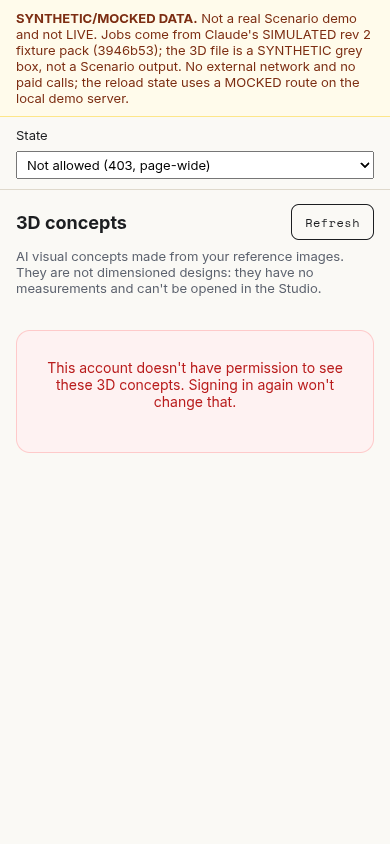
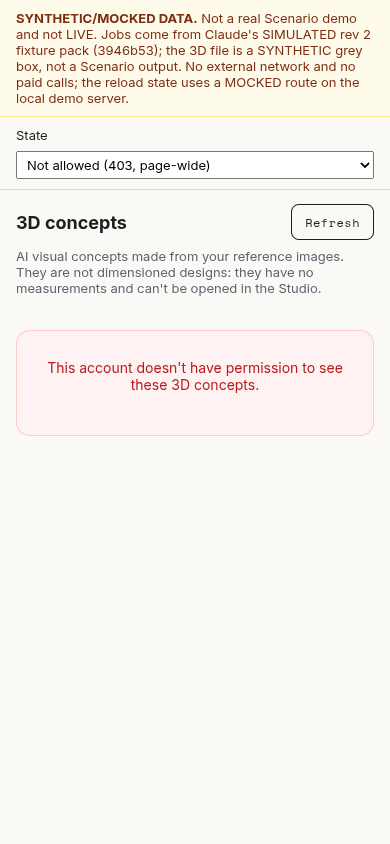
projects: pass autoRetry:false to AE viewer v3 at mount and per load(); 403 page-wide without any sign-in wording; tests (viewerV3, e2e F06-N2); state-10 SYNTHETIC screenshots re-shot; docs: AE-1/AE-2 resolved, 409 ASSET_NOT_READY refresh accepted as not a retry

Changed region(s): [[0.1538, 0.4313, 0.7385, 0.4929], [0.7692, 0.4313, 0.8615, 0.4621]]

diff --git a/tests/projects/viewerV3.test.js b/tests/projects/viewerV3.test.js
@@ -1,0 +1,137 @@
+/**
+ * Follow-up to AE viewer v3 (1bb8b59, autoRetry option, default off) and AE's confirmation that
+ * 403 FORBIDDEN is page-wide (SIMULATED fixtures; the viewer is the fake handle in
+ * fixtures/fakeViewer.js, the creative source is the real one).
+ *
+ * (a) The gallery passes autoRetry:false EXPLICITLY at mount and on every load(), and a viewer
+ *     that ignores unknown options (v2.1) still works.
+ * (b) 403 is page-wide like signed-out, but WITHOUT any sign-in prompt; 401 keeps its prompt.
+ */
+import { describe, expect, it } from "vitest";
+import { byAttr, byTag, flush } from "./fakeDom.js";
+import { setup, button, card, panel } from "./helpers.js";
+import { LIST_MESSAGES, ERROR_KIND } from "../../src/lib/projects/conceptGallery/errors.js";
+import { assetBody, jobBody, listBody, succeededJob } from "./fixtures/contractFixtures.js";
+import { fakeViewerFactory, v2Like } from "./fixtures/fakeViewer.js";
+
+const SIGN_IN = /sign(ing)?[\s-]*in/i;
+
+function viewerSetup(behaviour, handlers = {}, extra = {}) {
+  const job = succeededJob();
+  const mountAssetViewer = fakeViewerFactory(behaviour);
+  const ctx = setup(
+    { listJobs: () => listBody([job]), getJob: () => jobBody(job), getAssetUrl: ({ index }) => assetBody(job, index), ...handlers },
+    { mountAssetViewer, viewerOptions: { three: "THREE-from-host" }, startDownload: () => {}, ...extra },
+  );
+  return { ...ctx, job, mountAssetViewer };
+}
+
+function expectNoSignInPrompt(root) {
+  const actions = [...byTag(root, "button"), ...byTag(root, "a")];
+  expect(actions.filter((n) => SIGN_IN.test(n.textContent))).toEqual([]);
+  expect(byTag(root, "a").filter((n) => /sign|login|auth/i.test(n.getAttribute("href") || ""))).toEqual([]);
+  expect(root.textContent).not.toMatch(SIGN_IN);
+}
+
+describe("viewer v3: autoRetry:false is passed explicitly", () => {
+  it("the injected viewer factory receives autoRetry:false at mount, even if viewerOptions says true", async () => {
+    const { root, mountAssetViewer } = viewerSetup(v2Like([]), {}, { viewerOptions: { three: "THREE-from-host", autoRetry: true } });
+    await flush();
+    button(root, "open").click();
+    await flush();
+    expect(mountAssetViewer.made).toHaveLength(1);
+    expect(mountAssetViewer.made[0].opts).toMatchObject({ autoRetry: false, renderConceptNotice: false, three: "THREE-from-host" });
+  });
+
+  it("every load() call receives autoRetry:false, including the one from 'Try opening again'", async () => {
+    let first = true;
+    const behaviour = async () => {
+      if (first) {
+        first = false;
+        return { ok: false, error: { code: "RESOLVE_FAILED", status: 502, serverCode: "PROVIDER_UNAVAILABLE" } };
+      }
+      return { ok: true };
+    };
+    const { root, mountAssetViewer } = viewerSetup(behaviour);
+    await flush();
+    button(root, "open").click();
+    await flush();
+    const v = mountAssetViewer.made[0];
+    expect(v.loads).toHaveLength(1);
+    expect(v.loads[0]).toMatchObject({ autoRetry: false });
+    const retry = button(root, "retry-asset");
+    expect(retry).not.toBeNull();
+    retry.click();
+    await flush();
+    expect(v.loads).toHaveLength(2);
+    expect(v.loads.every((ref) => ref.autoRetry === false)).toBe(true);
+  });
+
+  it("an older viewer that ignores unknown options still opens the concept", async () => {
+    const made = [];
+    // v2.1-style handle: reads only the fields it knows and never looks at autoRetry.
+    const olderViewer = (el, { creativeSource }) => {
+      const v = {
+        loads: [],
+        async load({ jobId, index }) {
+          v.loads.push({ jobId, index });
+          await creativeSource.resolve(jobId, index);
+          return { ok: true };
+        },
+        getState: () => ({ concept: null }),
+        dispose() {},
+      };
+      made.push(v);
+      return v;
+    };
+    const { root, client, job } = viewerSetup(null, {}, { mountAssetViewer: olderViewer });
+    await flush();
+    button(root, "open").click();
+    await flush();
+    expect(made).toHaveLength(1);
+    expect(made[0].loads).toEqual([{ jobId: job.jobId, index: 0 }]);
+    expect(client.count("getAssetUrl")).toBe(1);
+    expect(byAttr(root, "data-viewer-status")[0].textContent).toBe("");
+  });
+});
+
+describe("403 FORBIDDEN is page-wide, with no sign-in prompt (AE confirmed)", () => {
+  const forbidden = () => {
+    throw { status: 403, code: "UNAUTHORIZED", message: "Signed in but not allowed." };
+  };
+
+  it("list 403: permission panel, no sign-in button, link or text, no Try again", async () => {
+    const { root, gallery } = viewerSetup(v2Like([]), { listJobs: forbidden });
+    await flush();
+    expect(gallery.getState()).toMatchObject({ list: "error", error: { kind: ERROR_KIND.FORBIDDEN } });
+    expect(panel(root).getAttribute("data-panel")).toBe("forbidden");
+    expect(root.textContent).toContain(LIST_MESSAGES[ERROR_KIND.FORBIDDEN]);
+    expect(button(root, "retry")).toBeNull();
+    expectNoSignInPrompt(root);
+  });
+
+  it("403 from Open or Download goes page-wide the same way, still without a sign-in prompt", async () => {
+    for (const action of ["open", "download"]) {
+      const { root, gallery, job } = viewerSetup(v2Like([]), { getAssetUrl: forbidden });
+      await flush();
+      button(root, action).click();
+      await flush();
+      expect(gallery.getState()).toMatchObject({ list: "error", error: { kind: ERROR_KIND.FORBIDDEN } });
+      expect(card(root, job.jobId)).toBeNull();
+      expect(byAttr(root, "data-panel", "forbidden")).toHaveLength(1);
+      expectNoSignInPrompt(root);
+    }
+  });
+
+  it("401 keeps its sign-in prompt (contrast)", async () => {
+    const { root, gallery } = viewerSetup(v2Like([]), {
+      listJobs: () => {
+        throw { status: 401, code: "MISSING_AUTH", message: "Sign in." };
+      },
+    });
+    await flush();
+    expect(gallery.getState().error.kind).toBe(ERROR_KIND.SIGNED_OUT);
+    expect(panel(root).getAttribute("data-panel")).toBe("signed_out");
+    expect(root.textContent).toContain("Sign in to see your 3D concepts.");
+  });
+});

diff --git a/src/lib/projects/conceptGallery/mountConceptGallery.js b/src/lib/projects/conceptGallery/mountConceptGallery.js
@@ -11,14 +11,17 @@
  * unfinished jobs resume polling.
  *
  * Everything the gallery needs that Asset Engineer's viewer already does
- * (src/lib/assetViewer, v2.1 at b34e259) is INJECTED, never rebuilt:
+ * (src/lib/assetViewer; v2.1 at b34e259, v3 at 1bb8b59) is INJECTED, never rebuilt:
  *   - creativeSource = createCreativeAssetSource({ fetchImpl, getAuthToken })
  *       .resolve(jobId, index, { signal }) -> fresh { url, format, filename, concept, ... } per call
  *       .getJob(jobId, { signal })         -> { job, refresh }
- *   - mountAssetViewer(el, { ...viewerOptions, creativeSource, renderConceptNotice: false }) -> handle with
- *       load({ jobId, index, format }), getState() and dispose(). NOTE: v2.1's load() itself
- *       re-resolves once on a retryable resolve failure and retries a display failure once.
- *       That is Asset Engineer's code (question AE-1 in CONCEPT_GALLERY.md); the gallery adds none.
+ *   - mountAssetViewer(el, { ...viewerOptions, creativeSource, renderConceptNotice: false, autoRetry: false })
+ *       -> handle with load({ jobId, index, format, autoRetry: false }), getState() and dispose().
+ *       Retries are user-initiated only, so the gallery passes autoRetry:false EXPLICITLY at mount
+ *       and on every load(). Viewer v3 (1bb8b59) defaults autoRetry to false and, when it is off,
+ *       shows its own focusable Try again that re-resolves fresh (AE-1, resolved). Older viewers
+ *       (v2.1) ignore the unknown option and still work, but they re-resolve once and retry a
+ *       display failure once by themselves; that is Asset Engineer's code, the gallery adds none.
  * The gallery imports nothing from their code. The only call v2 does not cover is the
  * list, so that is the one thing the gallery asks of `client` (createCreativeJobsClient).
  * The gallery always renders concept.notice itself (card and viewer panel).
@@ -543,8 +546,10 @@ export function mountConceptGallery(root, options = {}) {
       viewerSlot.appendChild(viewerPanel);
       // The viewer resolves the address itself through the same injected source.
       // renderConceptNotice:false: the panel shows the notice itself (always), so the
-      // viewer's overlay must not show it a second time. Set last so it can't be overridden.
-      viewer = mountViewer(viewerHost, { ...viewerOptions, creativeSource: source, renderConceptNotice: false });
+      // viewer's overlay must not show it a second time. autoRetry:false: retries are
+      // user-initiated only (viewer v3; older viewers ignore it). Both set last so
+      // viewerOptions can't override them.
+      viewer = mountViewer(viewerHost, { ...viewerOptions, creativeSource: source, renderConceptNotice: false, autoRetry: false });
     }
     viewerPanel.textContent = "";
     viewerPanel.appendChild(el(doc, "div", { class: "fcg-viewer-head" }, heading, close));
@@ -576,8 +581,9 @@ export function mountConceptGallery(root, options = {}) {
     dispatch({ type: "ASSET_START", key, action: "open" });
     let result;
     try {
-      // A job-output reference, never a URL: v2 resolves fresh and retries display once itself.
-      result = await viewer.load({ jobId: request.jobId, index: request.index, format: request.format, mimeType: request.mimeType, concept });
+      // A job-output reference, never a URL; the viewer resolves fresh. autoRetry:false per call
+      // (viewer v3): no automatic re-resolve or display retry. Older viewers ignore the option.
+      result = await viewer.load({ jobId: request.jobId, index: request.index, format: request.format, mimeType: request.mimeType, concept, autoRetry: false });
     } catch (err) {
       result = { ok: false, error: { code: err?.code || "VIEWER_ERROR", serverCode: err?.serverCode, status: err?.status } };
     }

diff --git a/src/lib/projects/conceptGallery/errors.js b/src/lib/projects/conceptGallery/errors.js
@@ -136,7 +136,7 @@ export const LIST_MESSAGES = Object.freeze({
   [ERROR_KIND.NOT_CONFIGURED]: "3D concepts aren't available on this deployment yet.",
   [ERROR_KIND.INTEGRITY]: "Your concept list failed an integrity check, so it isn't shown.",
   [ERROR_KIND.NOT_FOUND]: "Your concept list couldn't be found.",
-  [ERROR_KIND.FORBIDDEN]: "This account doesn't have permission to see these 3D concepts. Signing in again won't change that.",
+  [ERROR_KIND.FORBIDDEN]: "This account doesn't have permission to see these 3D concepts.",
   [ERROR_KIND.MALFORMED]: "FurniAI sent a reply this page couldn't read, so your 3D concepts can't be shown right now.",
   [ERROR_KIND.RATE_LIMITED]: "FurniAI is busy and couldn't load your 3D concepts right now. Try again in a moment.",
   [ERROR_KIND.PROVIDER_REFUSED]: "The 3D generation service isn't accepting requests from FurniAI right now, so your 3D concepts can't be shown. Try again later.",
@@ -155,7 +155,7 @@ export const ASSET_MESSAGES = Object.freeze({
   [ERROR_KIND.NETWORK]: "We couldn't reach FurniAI to get this file. Check your connection and try again.",
   [ERROR_KIND.SERVER]: "FurniAI couldn't get this file right now. Try again in a moment.",
   [ERROR_KIND.NOT_CONFIGURED]: "3D concept files aren't available on this deployment yet.",
-  [ERROR_KIND.FORBIDDEN]: "This account doesn't have permission to get this file. Signing in again won't change that.",
+  [ERROR_KIND.FORBIDDEN]: "This account doesn't have permission to get this file.",
   [ERROR_KIND.MALFORMED]: "FurniAI sent a reply this page couldn't read, so this file can't be opened or downloaded right now.",
   // Starts like the 5xx text on purpose (QE nit, acceptance pins the prefix): busy, so try again shortly.
   [ERROR_KIND.RATE_LIMITED]: "FurniAI couldn't get this file right now because the service is busy. Try again in a moment.",
@@ -174,7 +174,7 @@ export const DISPLAY_FAILED_MESSAGE = "The 3D view couldn't show this file. Down
 export const JOB_MESSAGES = Object.freeze({
   [ERROR_KIND.INTEGRITY]: "This concept's record failed an integrity check. It is not used and is no longer updated.",
   [ERROR_KIND.NOT_FOUND]: "This concept no longer exists.",
-  [ERROR_KIND.FORBIDDEN]: "This account doesn't have permission to open this concept. Signing in again won't change that.",
+  [ERROR_KIND.FORBIDDEN]: "This account doesn't have permission to open this concept.",
 });
 
 /**

diff --git a/docs/m3/projects/CONCEPT_GALLERY.md b/docs/m3/projects/CONCEPT_GALLERY.md
@@ -43,7 +43,7 @@ Never shown: dimensions, a `designId` or Studio link, `providerProgress`, `provi
 | AG My Projects (`#view-projects`, `#projectsGrid`, `.project-card`) | **reused as the host page**, not as markup | `.project-card` is clickable and means a dimensioned design; concepts are a separate section (MOUNT_PROPOSAL.md) |
 | AG design tokens `src/styles/design-tokens.css` | **reused** with the same values as `var()` fallbacks | |
 | `src/lib/designs/myDesigns` | not used | not AG's, not mounted |
-| AE viewer v2.1 (`mountAssetViewer`, `createCreativeAssetSource`) | **injected**, not imported | the gallery bundle now imports nothing from `src/lib/assetViewer/` (rev 1 imported `isRetryableResolveError`; removed with auto retry). IIFE bundle 84.5 KB unminified, 0 assetViewer modules |
+| AE viewer v2.1 / v3 (`mountAssetViewer`, `createCreativeAssetSource`) | **injected**, not imported; mounted and loaded with `autoRetry: false` | the gallery bundle now imports nothing from `src/lib/assetViewer/` (rev 1 imported `isRetryableResolveError`; removed with auto retry). IIFE bundle 84.5 KB unminified, 0 assetViewer modules |
 | `jobsClient.js` `createCreativeJobsClient` | **new**, thin | `listJobs`, `getJob`, `getConfig`: one fetch per call, Bearer header, `cache:"no-store"`, typed `{status, code, message}` rejections, no retry |
 | `submitOutcome.js` | **new** | billing / budget / 429 / unknown-charge wording for POST jobs answers |
 
@@ -71,9 +71,14 @@ Never shown: dimensions, a `designId` or Studio link, `providerProgress`, `provi
   It **pauses** after 3 failed rounds in a row or on any 429, and says so, with "Check status
   again". It stops when no job is unfinished, on `destroy()`, while the tab is hidden, on
   signed-out and on a list error.
-- **Known gap (AE-1):** AE's viewer v2.1 still re-resolves once by itself inside `load()` on a
-  retryable resolve failure and retries the display once; `download()` also re-resolves once.
-  The gallery doesn't use `viewer.download()`, but Open goes through `load()`. Needs an AE option.
+- **Viewer retries (AE-1, RESOLVED):** AE's viewer v3 (`1bb8b59`, local) adds `autoRetry`,
+  **default off**, at mount and per call on `load()`/`download()`; when off, the viewer shows a
+  focusable Try again that re-resolves fresh. The gallery passes `autoRetry: false`
+  **explicitly** in the mount options (set after `viewerOptions`, so a host can't turn it on) and
+  on every `load()` (`tests/projects/viewerV3.test.js`). Older viewers (v2.1) ignore the unknown
+  option and still work, but keep their own single re-resolve/display retry.
+- **409 `ASSET_NOT_READY`:** the one status refresh of that job after a not-ready answer was
+  **accepted by CraZy as not a retry** (it re-reads the job, it doesn't repeat the asset call).
 - Contract §2.5 says "if a load fails, call it again once"; that conflicts with the 7 Oct policy.
   The gallery follows the policy (Claude request C-4).
 
@@ -111,7 +116,7 @@ All at desktop-1440 and mobile-390, screenshots in `artifacts/rev2/{desktop,mobi
 | 07 | failed (provider codes) | safe one-line reason |
 | 08 | submission_unknown | may have been charged; confirm-first note |
 | 09 | 401 signed out | sign-in prompt, polling stops |
-| 10 | 403 page-wide | permission message, no sign-in prompt |
+| 10 | 403 page-wide | "This account doesn't have permission to see these 3D concepts." Like signed-out (page-wide, polling stops) but **no sign-in button, link or text** and no Try again; re-shot 8 Oct after the wording change (AE-2) |
 | 11–15 | network / 5xx / 429 / provider refused / provider unavailable | lead line "Your concepts couldn't be loaded. This doesn't mean you have none." + Try again |
 | 16 | not configured 503 | |
 | 17 | generation unavailable / budget | availability note from config; list still shown |
@@ -153,9 +158,9 @@ Tokens from `src/styles/design-tokens.css` (AG `8744d07`), each with its value a
 ## 10. Tests (box, 7 Oct 2026)
 
 ```
-npx vitest run --config tests/projects/vitest.config.js      # 10 files, 216 passed (SIMULATED fixtures)
+npx vitest run --config tests/projects/vitest.config.js      # 11 files, 222 passed (SIMULATED fixtures)
 npx vitest run                                               # root: tests/projects all pass; see below
-npx playwright test -c tests/projects/e2e/playwright.config.mjs  # 86 passed, desktop-1440 + mobile-390, axe (SYNTHETIC/MOCKED)
+npx playwright test -c tests/projects/e2e/playwright.config.mjs  # 88 passed, desktop-1440 + mobile-390, axe (SYNTHETIC/MOCKED)
 npx eslint src/lib/projects tests/projects docs/m3/projects/demo # clean
 node docs/m3/projects/demo/capture.mjs                       # 56 SYNTHETIC screenshots
 ```
@@ -185,9 +190,14 @@ designs client · AG-2 expose the token helper under a stable name (e.g.
 `window.FurniAuth.getAccessToken`) · AG-3 agree the mount point (MOUNT_PROPOSAL.md) · AG-4 link
 `design-tokens.css` on the page; are `--status-*` right for job status?
 
-**Asset Engineer:** AE-1 can `load()` / `download()` take an option (e.g. `autoRetry:false`) that
-turns off the internal re-resolve and display retry, so retries stay user-initiated? AE-2 (from
-rev 1 Q15) should hosts treat `FORBIDDEN` as page-wide?
+**Asset Engineer:**
+- AE-1 (`autoRetry` opt-out): **RESOLVED** by AE viewer v3 `1bb8b59`. `autoRetry` defaults to
+  off, and the gallery passes `autoRetry: false` explicitly at mount and on each `load()`.
+- AE-2 (`FORBIDDEN` page-wide): **RESOLVED**, confirmed by AE. Rev 2 never returns a per-job
+  403; it comes from infrastructure. The gallery treats it like signed-out without a sign-in
+  prompt. Note for AE: the viewer's own `FORBIDDEN` text in `src/lib/assetViewer/errors.js` still
+  says "Signing in again won't change that."; the gallery never shows it (it closes into the
+  page-wide panel).
 
 ## 12. Replica skills used
 
@@ -197,5 +207,5 @@ followed. The Windows PC went offline mid-task, so they were read from a byte co
 replica-diff tools were **copied to a temp dir** (`/tmp/replica-diff.z8ay/`) and **run directly**:
 `imgdiff.py` (layout mode, 11 rev-1 → rev-2 screens, `rev2/diffs/*.json|.layout.png`) and
 `parity.py rev2/features.csv --visual rev2/diffs/*.json --markdown > rev2/parity.md` (features
-93.1, must-haves 25/26). replica-test gave [rev2/TEST_PLAN.md](rev2/TEST_PLAN.md) (case IDs F01–F10)
+94.3, must-haves 25/26). replica-test gave [rev2/TEST_PLAN.md](rev2/TEST_PLAN.md) (case IDs F01–F10)
 and [rev2/BUGS.md](rev2/BUGS.md); replica-build gave the state list, 390/1440 and the token rules.

diff --git a/docs/m3/projects/rev2/TEST_PLAN.md b/docs/m3/projects/rev2/TEST_PLAN.md
@@ -18,12 +18,14 @@ Playwright with role/label selectors, console errors and 5xx responses fail the 
 | F02-E3 | download | edge: integrity 409 | click | card locks, no Open/Download | e2e + unit | pass |
 | F02-E4 | download | edge: 502 PROVIDER_UNAVAILABLE | click | provider wording, one request, visible Try again | e2e + unit | pass |
 | F03-H1 | open | happy | click Open 3D view, Close | AE viewer with notice; focus returns to Open (BUG-003) | e2e + unit | pass |
+| F03-E1 | open | edge: viewer v3 autoRetry | open, fail once, Try opening again; older viewer | mount and every load() get `autoRetry:false`; a viewer that ignores it still opens | unit | pass |
 | F04-N1 | keyboard | negative | Tab to Download, Enter | download starts | e2e | pass |
 | F05-H1 | reload | happy | processing job on MOCKED route; reload page | card restored from GET jobs, polling resumes, turns Ready; no browser storage | e2e + unit | pass |
 | F05-E1 | reload | edge: storage | spy on localStorage/sessionStorage | zero reads/writes | e2e + unit | pass |
 | F06-E1 | error vs empty | edge | load 5xx, network, empty | failures say "doesn't mean you have none" + Try again; empty differs | e2e + unit | pass |
 | F06-E2 | list retry | edge | list fails; wait; click Try again | nothing automatic; exactly one more request | e2e + unit | pass |
 | F06-N1 | auth | negative: 401 / 403 | load | sign-in prompt / page-wide permission message, no Try again for 403 | e2e + unit | pass |
+| F06-N2 | auth | negative: 403 page-wide | list / Open / Download answer 403 | permission panel; no sign-in button, link or text; 401 keeps "Sign in to see your 3D concepts." | e2e + unit | pass |
 | F07-E1 | polling | edge: 429 | status check answers 429 | polling pauses, "Check status again" resumes | e2e + unit | pass |
 | F07-E2 | polling | edge: 3 failures | 3 failed rounds | pause after 3; interval stays 3–5 s, no backoff | unit | pass |
 | F07-E3 | polling | edge: terminal / destroy / hidden | | polling stops | unit | pass |
@@ -35,6 +37,6 @@ Playwright with role/label selectors, console errors and 5xx responses fail the 
 | C-01 | contract | SIMULATED | real api/creative.js + stand-in | rev-2 shapes, INVALID_IMAGE 422, PRIOR_SUBMISSION_UNKNOWN → 202 with ack, config ready | contract (vitest) | pass |
 | A11Y | all | axe | 16 states × 2 viewports | 0 violations | e2e | pass |
 
-Totals (7 Oct 2026, box): module vitest 216/216; Playwright 86/86 (43 per viewport); ESLint clean;
+Totals (8 Oct 2026, box, after the viewer-v3 follow-up): module vitest 222/222 (SIMULATED); Playwright 88/88 (44 per viewport, SYNTHETIC/MOCKED); ESLint clean;
 root vitest: all `tests/projects` pass, 129 pre-existing failures in `tests/acceptance/scenario/**`
 (same on clean `f472aef`).

diff --git a/docs/m3/projects/rev2/parity.md b/docs/m3/projects/rev2/parity.md
@@ -1,20 +1,20 @@
-## Parity: 82.8 / 100
+## Parity: 83.8 / 100
 
-> **Note:** the layout score here compares rev-1 screenshots (1200 px, FIXTURE) with rev-2 (1440 px / 390 px, SYNTHETIC/MOCKED). There is no "original app" screen for the concept gallery, so it measures how much the layout changed in rev 2 (new banner, intro, Concept label, Result row, availability note), **not** parity. The feature score against the brief (features.csv: original = required by the brief) is the number that matters: 93.1, must-haves 25/26 (the mount is a proposal only).
+> **Note:** the layout score here compares rev-1 screenshots (1200 px, FIXTURE) with rev-2 (1440 px / 390 px, SYNTHETIC/MOCKED). There is no "original app" screen for the concept gallery, so it measures how much the layout changed in rev 2 (new banner, intro, Concept label, Result row, availability note), **not** parity. The feature score against the brief (features.csv: original = required by the brief) is the number that matters: see below (the mount is a proposal only).
 
-features 93.1  (31 counted, must-haves 25 of 26 done)
+features 94.3  (31 counted, must-haves 25 of 26 done)
 layout   41.8  (11 screens compared)
 
 Not shippable yet: 1 must-have features are not done.
 
 ## By area, weakest first
 - integration                   56.2  (3 features)
-- retry                         80.0  (2 features)
 - gallery list                  87.5  (2 features)
 - card                          92.9  (5 features)
 - states                       100.0  (8 features)
 - reload                       100.0  (3 features)
 - billing                      100.0  (3 features)
+- retry                        100.0  (2 features)
 - polling                      100.0  (1 features)
 - visual                       100.0  (3 features)
 - a11y                         100.0  (1 features)
@@ -23,7 +23,6 @@ Not shippable yet: 1 must-have features are not done.
 - [must] integration: Mount on agreed mount point, partial  (no agreed mount in f472aef; MOUNT_PROPOSAL.md updated; index.html untouched)
 - [should] integration: Reuse AG generic authed request, no  (not exported by designsApiClient (AG request AG-1))
 - [should] card: Card: reference thumbnail when one exists, partial  (host hook resolveReferenceThumbnail; contract rev 2 has no thumbnail field (Claude request C-2); placeholder otherwise)
-- [should] retry: No auto retry inside AE viewer, partial  (AE viewer v2.1 re-resolves once internally; question AE-1)
 - [could] gallery list: List beyond 50 jobs, partial  (truncated note shown; pagination is Claude request C-1)
 
 ## Screens

diff --git a/docs/m3/projects/rev2/BUGS.md b/docs/m3/projects/rev2/BUGS.md
@@ -51,4 +51,4 @@ Expected (policy): one resolve, then "Try opening again".
 Actual: AE's `load()` re-resolves once by itself (and retries the display once) before reporting.
 Evidence: `tests/projects/viewer.test.js` notes the internal re-resolve; "Try opening again" adds exactly the user's calls.
 Suspected cause: `src/lib/assetViewer` v2.1 V1 behaviour (not owned here).
-Status: open, question AE-1 (option such as `autoRetry:false`)
+Status: fixed: AE viewer v3 1bb8b59 adds `autoRetry` (default off); the gallery passes `autoRetry: false` at mount and on every load() (viewerV3.test.js). Older viewers keep their own retry.
